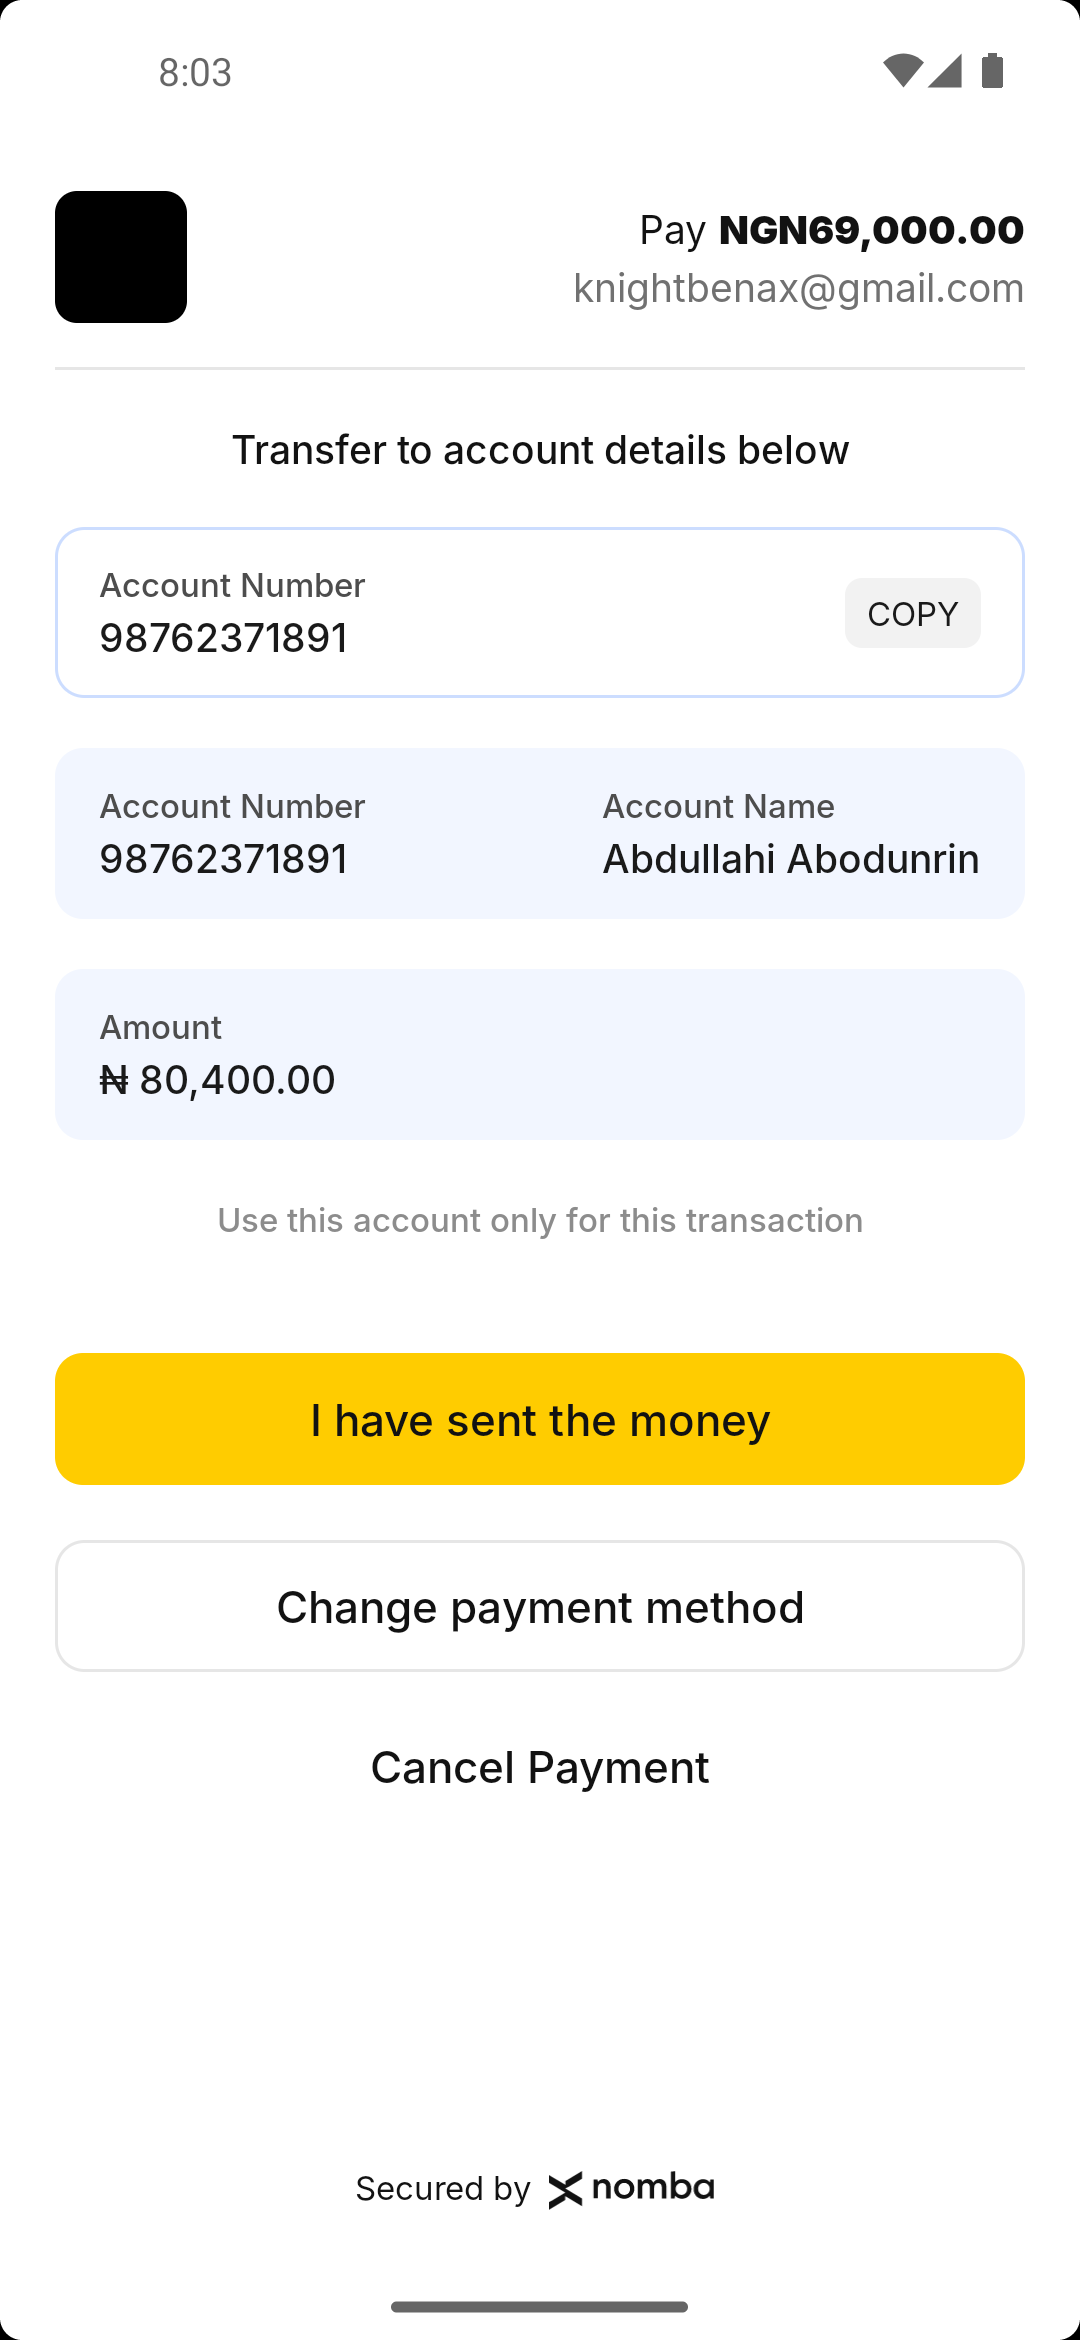
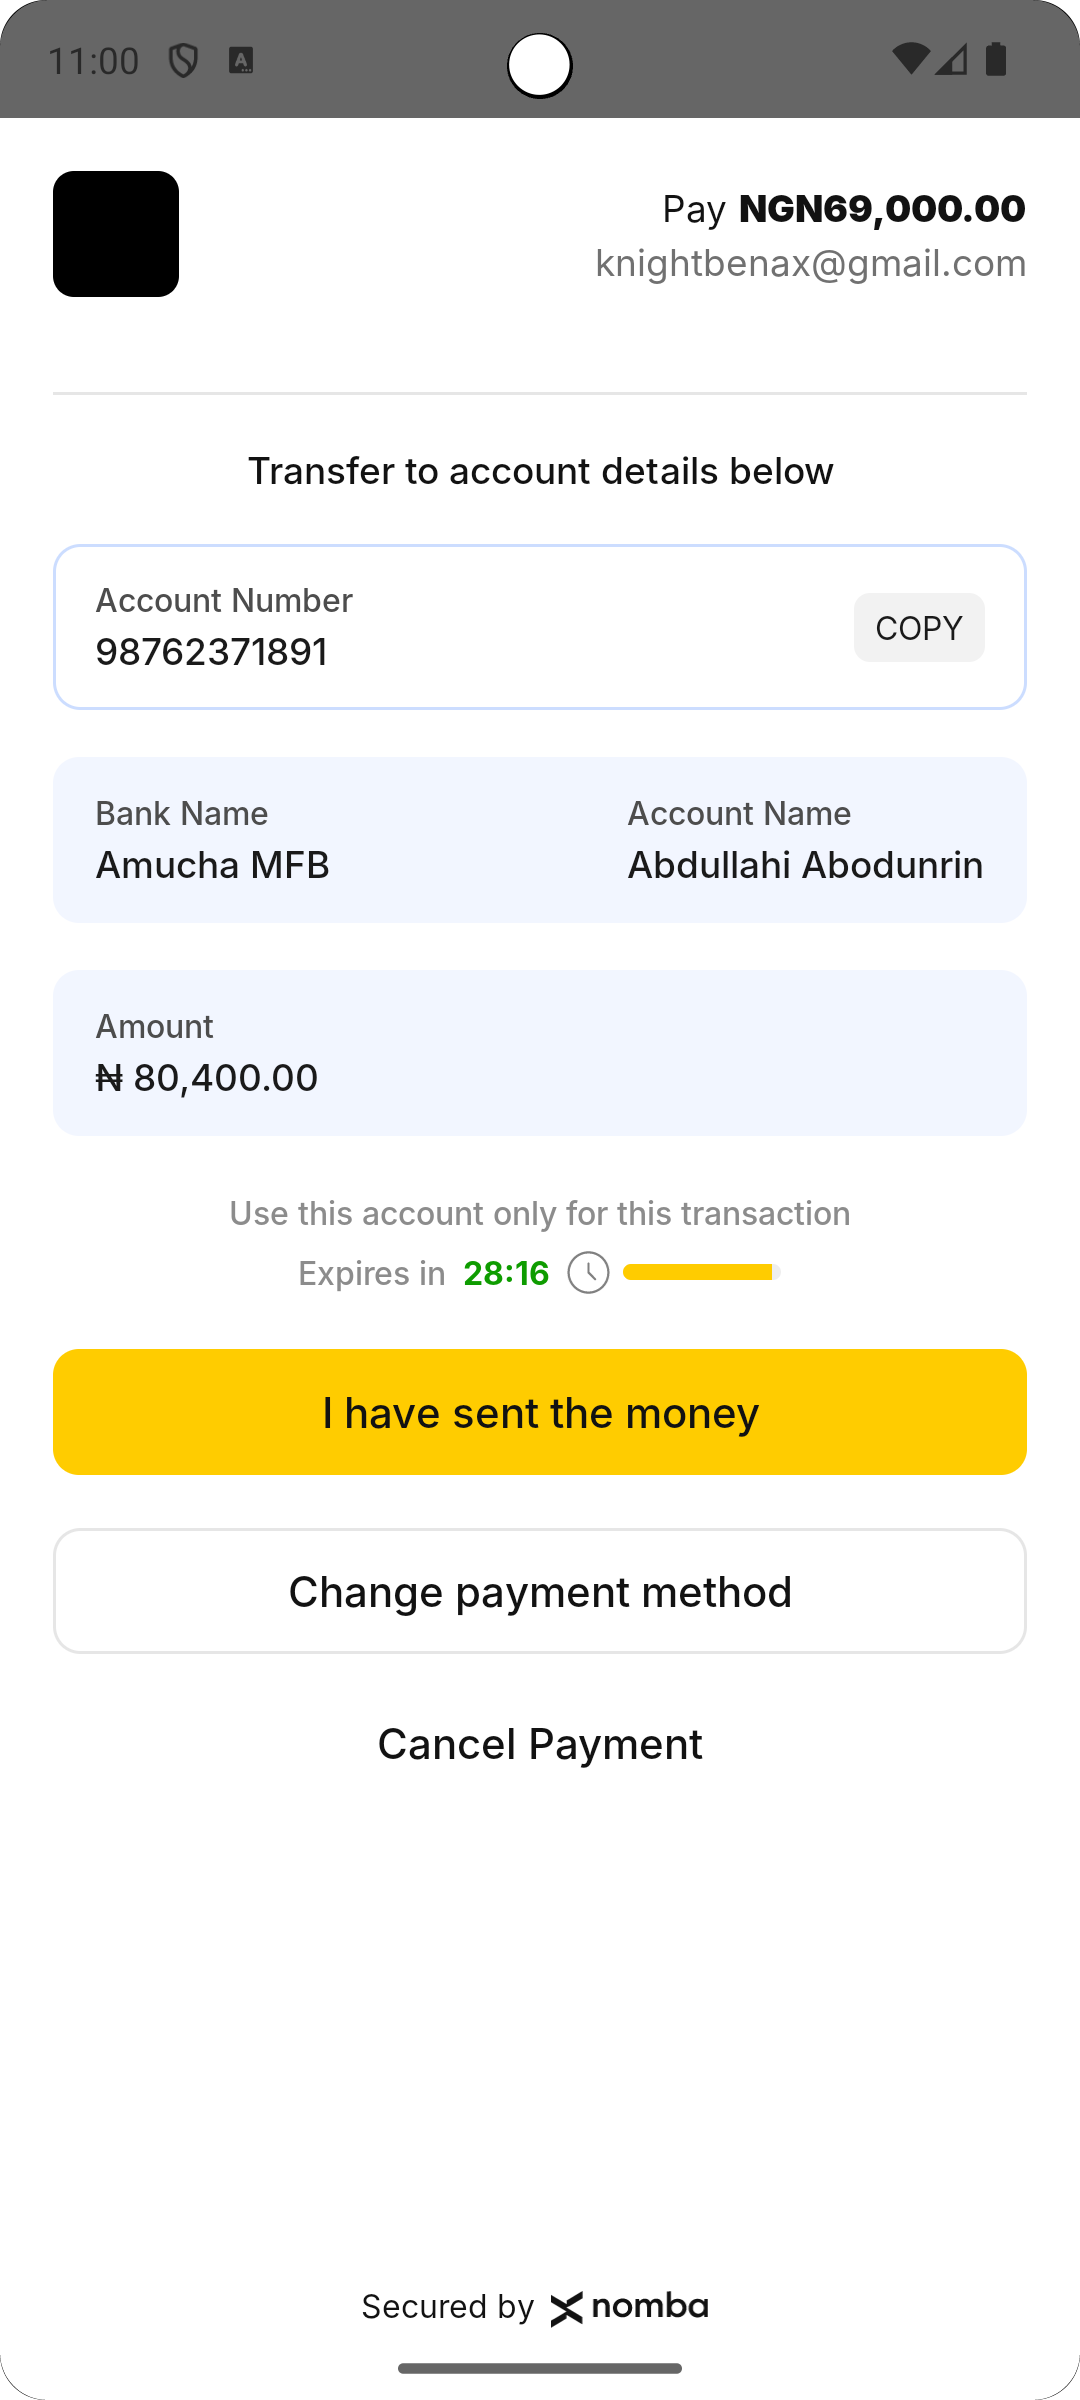
Restructure Manager Syncing

diff --git a/wraith/src/main/java/com/nomba/wraith/core/NombaManager.kt b/wraith/src/main/java/com/nomba/wraith/core/NombaManager.kt
@@ -9,6 +9,7 @@ import android.view.ViewGroup
 import androidx.constraintlayout.widget.ConstraintLayout
 import com.nomba.wraith.databinding.MainViewBinding
 import com.nomba.wraith.ui.shelters.PaymentOptionsShelter
+import com.nomba.wraith.ui.shelters.transfer.TransferExpiredShelter
 import com.nomba.wraith.ui.shelters.transfer.TransferShelter
 import java.lang.ref.WeakReference
 import java.text.NumberFormat
@@ -45,11 +46,9 @@ open class NombaManager private constructor (private var activity: WeakReference
     private lateinit var activityMainViewBinding : MainViewBinding
     private lateinit var paymentOptionsShelter: PaymentOptionsShelter
     private lateinit var transferShelter: TransferShelter
+    private lateinit var transferExpiredShelter: TransferExpiredShelter
 
-    private fun createAllShelters(){
-        paymentOptionsShelter = PaymentOptionsShelter(activityMainViewBinding.paymentOptions)
-        transferShelter = TransferShelter(activityMainViewBinding.transferView)
-    }
+
 
     private fun setUpMainPaymentView()  {
         val inflater: LayoutInflater = LayoutInflater.from(activity.get()).context.getSystemService(Context.LAYOUT_INFLATER_SERVICE) as LayoutInflater
@@ -66,9 +65,21 @@ open class NombaManager private constructor (private var activity: WeakReference
             val bottomParam = activityMainViewBinding.attribution.layoutParams as ViewGroup.MarginLayoutParams
             bottomParam.setMargins(0, 0,0, navBarSize)
             activityMainViewBinding.attribution.layoutParams = bottomParam
+
+            //val statusHeightParam = activityMainViewBinding.statusBar.layoutParams as ViewGroup.MarginLayoutParams
+            activityMainViewBinding.statusBar.layoutParams = ViewGroup.LayoutParams(ConstraintLayout.LayoutParams.MATCH_PARENT, statusBarSize)
+
             windowInsets
+
+            //activityMainViewBinding.statusBar.he
         }
         parentGroup.get()?.addView(activityMainViewBinding.root)
+    }
+
+    private fun createAllShelters(){
+        paymentOptionsShelter = PaymentOptionsShelter(activityMainViewBinding.paymentOptions)
+        transferShelter = TransferShelter(this, activityMainViewBinding.transferView)
+        transferExpiredShelter = TransferExpiredShelter(activityMainViewBinding.transferExpiredView)
     }
 
     fun showPaymentView(){
@@ -77,6 +88,14 @@ open class NombaManager private constructor (private var activity: WeakReference
         activityMainViewBinding.root.visibility = View.VISIBLE
         Log.e("Wraith by Nomba", "Show Payment View")
     }
+
+    private fun setPaymentValues(){
+        format.maximumFractionDigits = 2
+        format.currency = Currency.getInstance("NGN")
+        activityMainViewBinding.amountLabel.text = format.format(paymentAmount)
+        activityMainViewBinding.emailLabel.text = customerEmail
+    }
+
 
     private fun setOnClickListeners(){
         //Transfer Button
@@ -92,12 +111,13 @@ open class NombaManager private constructor (private var activity: WeakReference
         }
     }
 
-    private fun setPaymentValues(){
-        format.maximumFractionDigits = 2
-        format.currency = Currency.getInstance("NGN")
-        activityMainViewBinding.amountLabel.text = format.format(paymentAmount)
-        activityMainViewBinding.emailLabel.text = customerEmail
+
+    fun waitingForTransferExpired(){
+        transferShelter.hideShelter()
+        transferExpiredShelter.showShelter()
     }
+
+
 
 
 }

diff --git a/wraith/src/main/java/com/nomba/wraith/ui/shelters/transfer/TransferShelter.kt b/wraith/src/main/java/com/nomba/wraith/ui/shelters/transfer/TransferShelter.kt
@@ -2,11 +2,12 @@ package com.nomba.wraith.ui.shelters.transfer
 
 import android.annotation.SuppressLint
 import android.os.CountDownTimer
+import com.nomba.wraith.core.NombaManager
 import com.nomba.wraith.core.Shelter
 import com.nomba.wraith.databinding.TransferViewBinding
 import java.util.Locale
 
-class TransferShelter(activityTransferViewBinding: TransferViewBinding) : Shelter(activityTransferViewBinding) {
+class TransferShelter(private var manager: NombaManager, activityTransferViewBinding: TransferViewBinding) : Shelter(activityTransferViewBinding) {
 
     private lateinit var waitingForTransferTimer: CountDownTimer
     private lateinit var confirmationTimer: CountDownTimer
@@ -43,7 +44,7 @@ class TransferShelter(activityTransferViewBinding: TransferViewBinding) : Shelte
     }
 
     private fun onWaitingForTransferEnd() {
-
+        manager.waitingForTransferExpired()
     }
 
     private fun onConfirmationTransferEnd(){

diff --git a/wraith/src/main/java/com/nomba/wraith/ui/shelters/transfer/TransferExpiredShelter.kt b/wraith/src/main/java/com/nomba/wraith/ui/shelters/transfer/TransferExpiredShelter.kt
@@ -1,8 +1,17 @@
 package com.nomba.wraith.ui.shelters.transfer
 
 import com.nomba.wraith.core.Shelter
-import com.nomba.wraith.databinding.TransferViewBinding
+import com.nomba.wraith.databinding.TransferExpiredViewBinding
 
 
-class TransferExpiredShelter(activityTransferViewBinding: TransferViewBinding) : Shelter(activityTransferViewBinding) {
+class TransferExpiredShelter(activityTransferExpiredViewBinding: TransferExpiredViewBinding) : Shelter(activityTransferExpiredViewBinding) {
+
+    override fun layout(): TransferExpiredViewBinding {
+        return super.layout() as TransferExpiredViewBinding
+    }
+
+    override fun showShelter() {
+        super.showShelter()
+    }
+
 }
